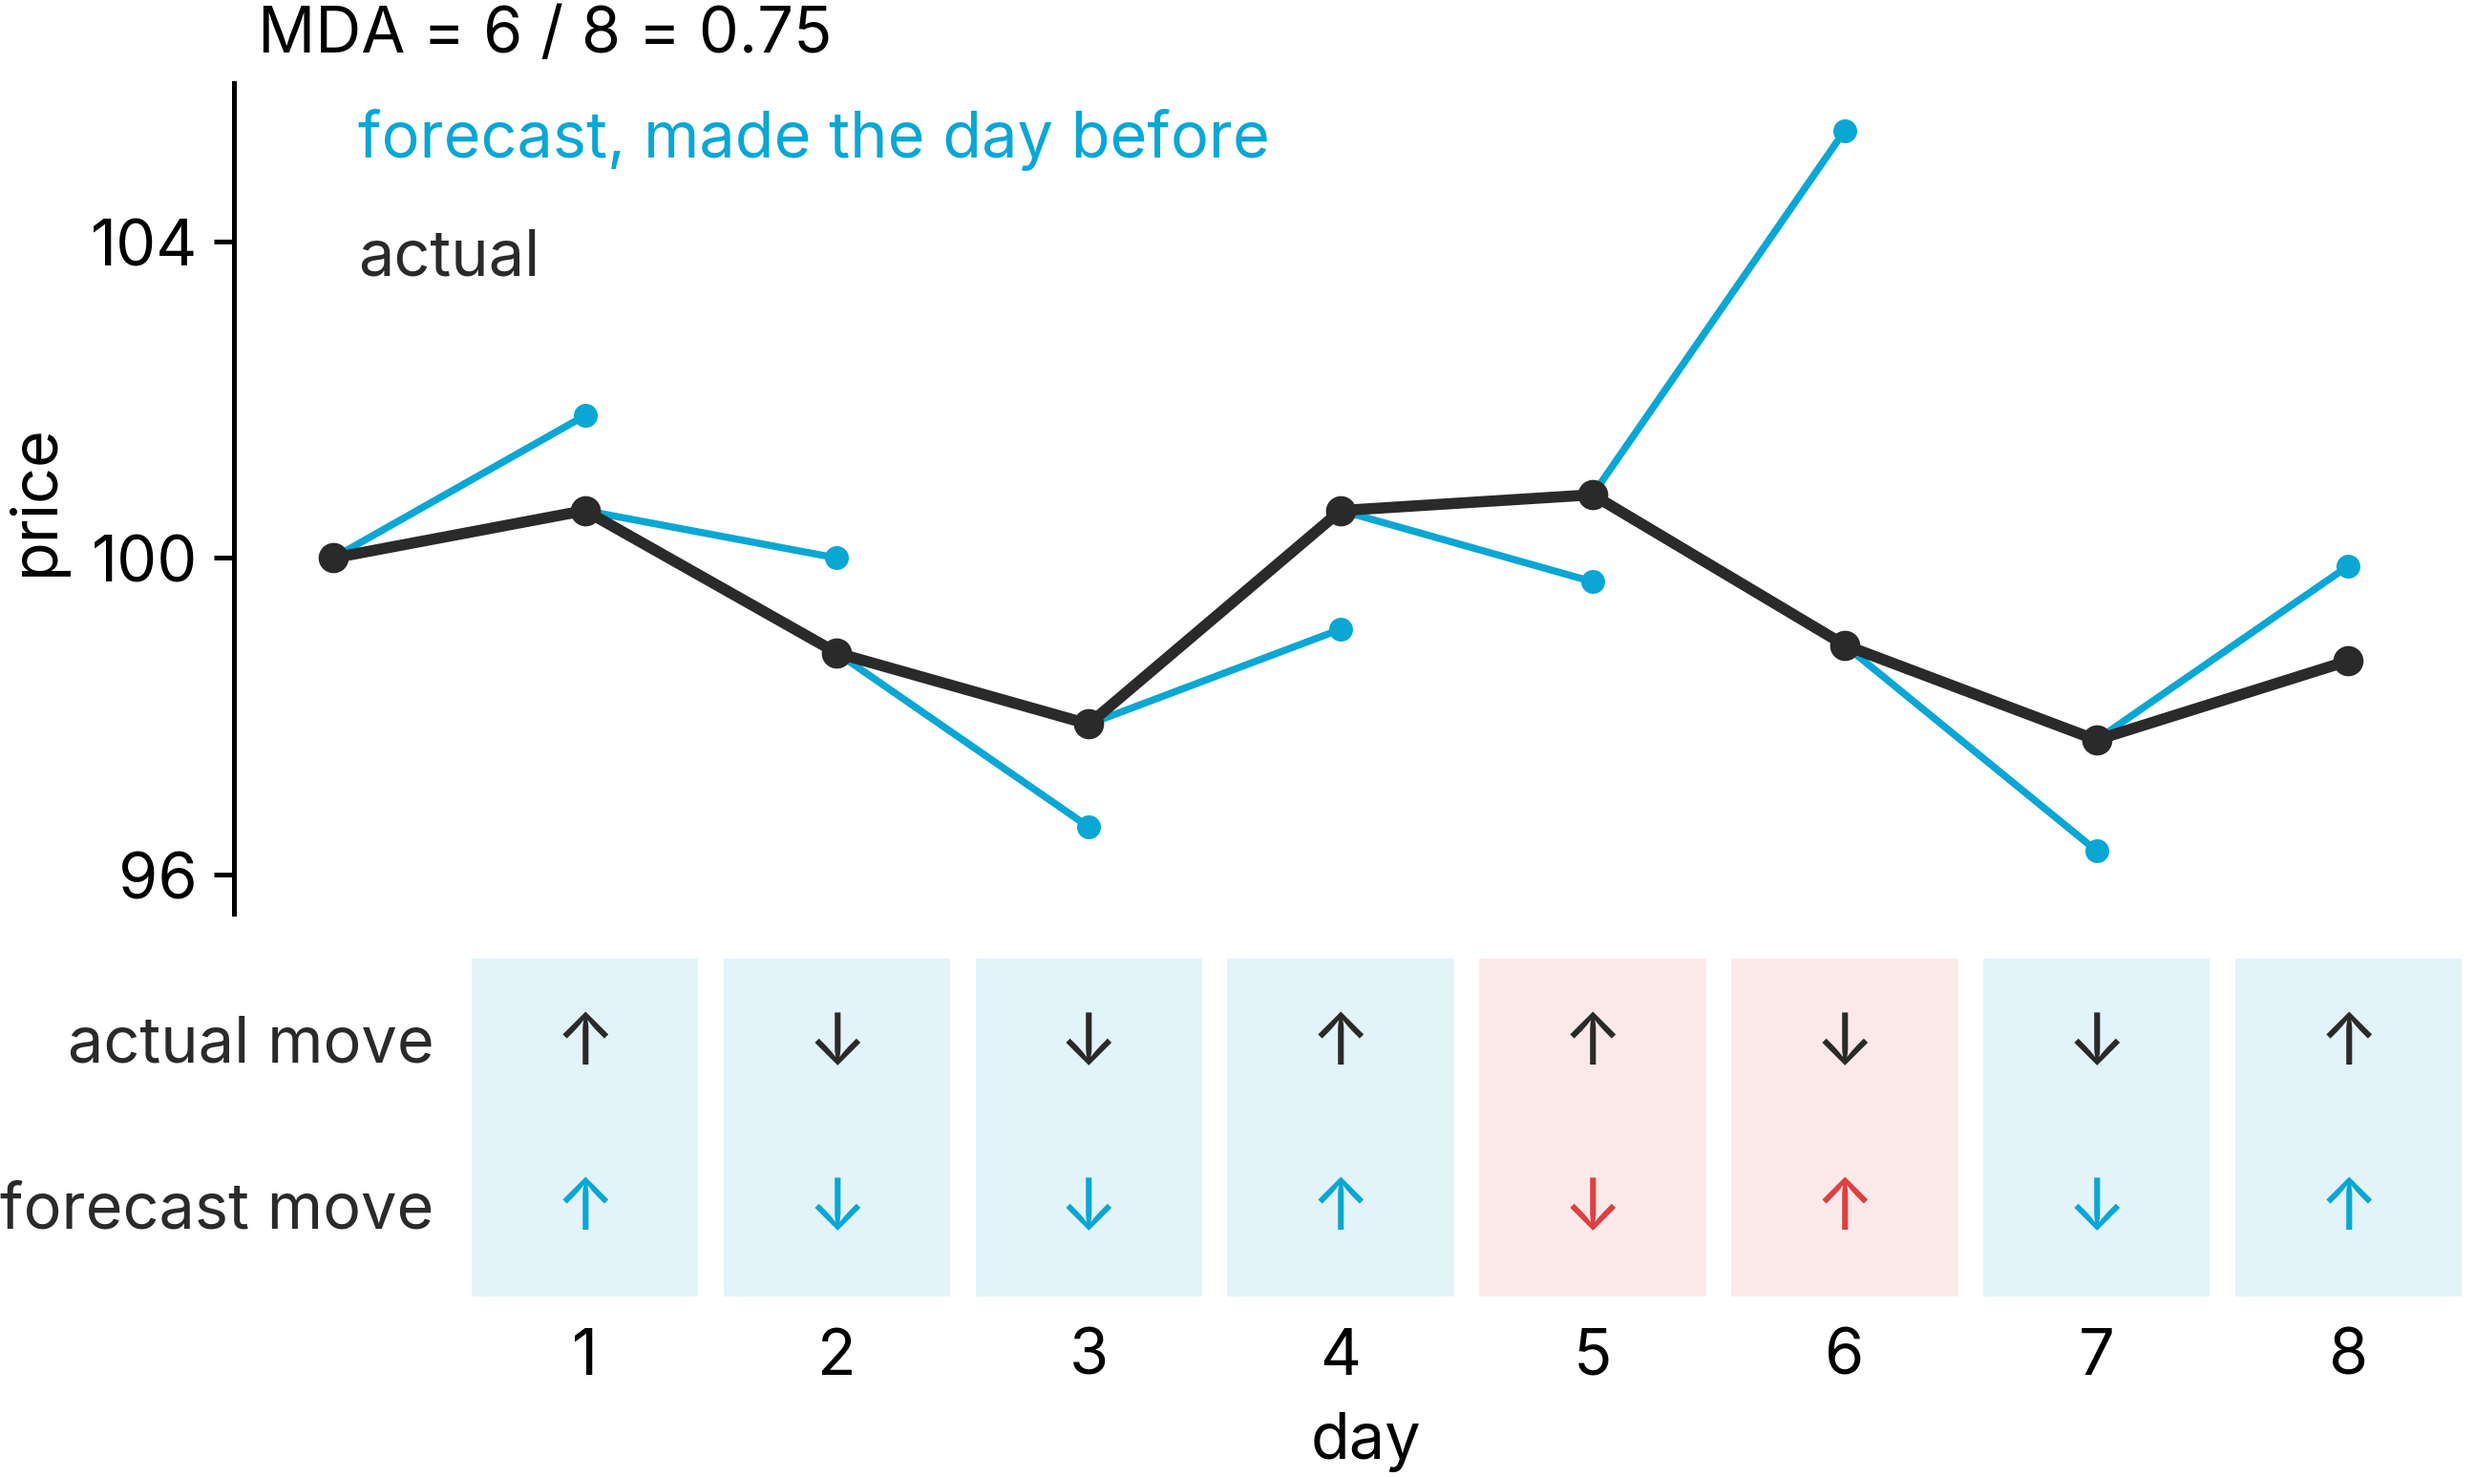
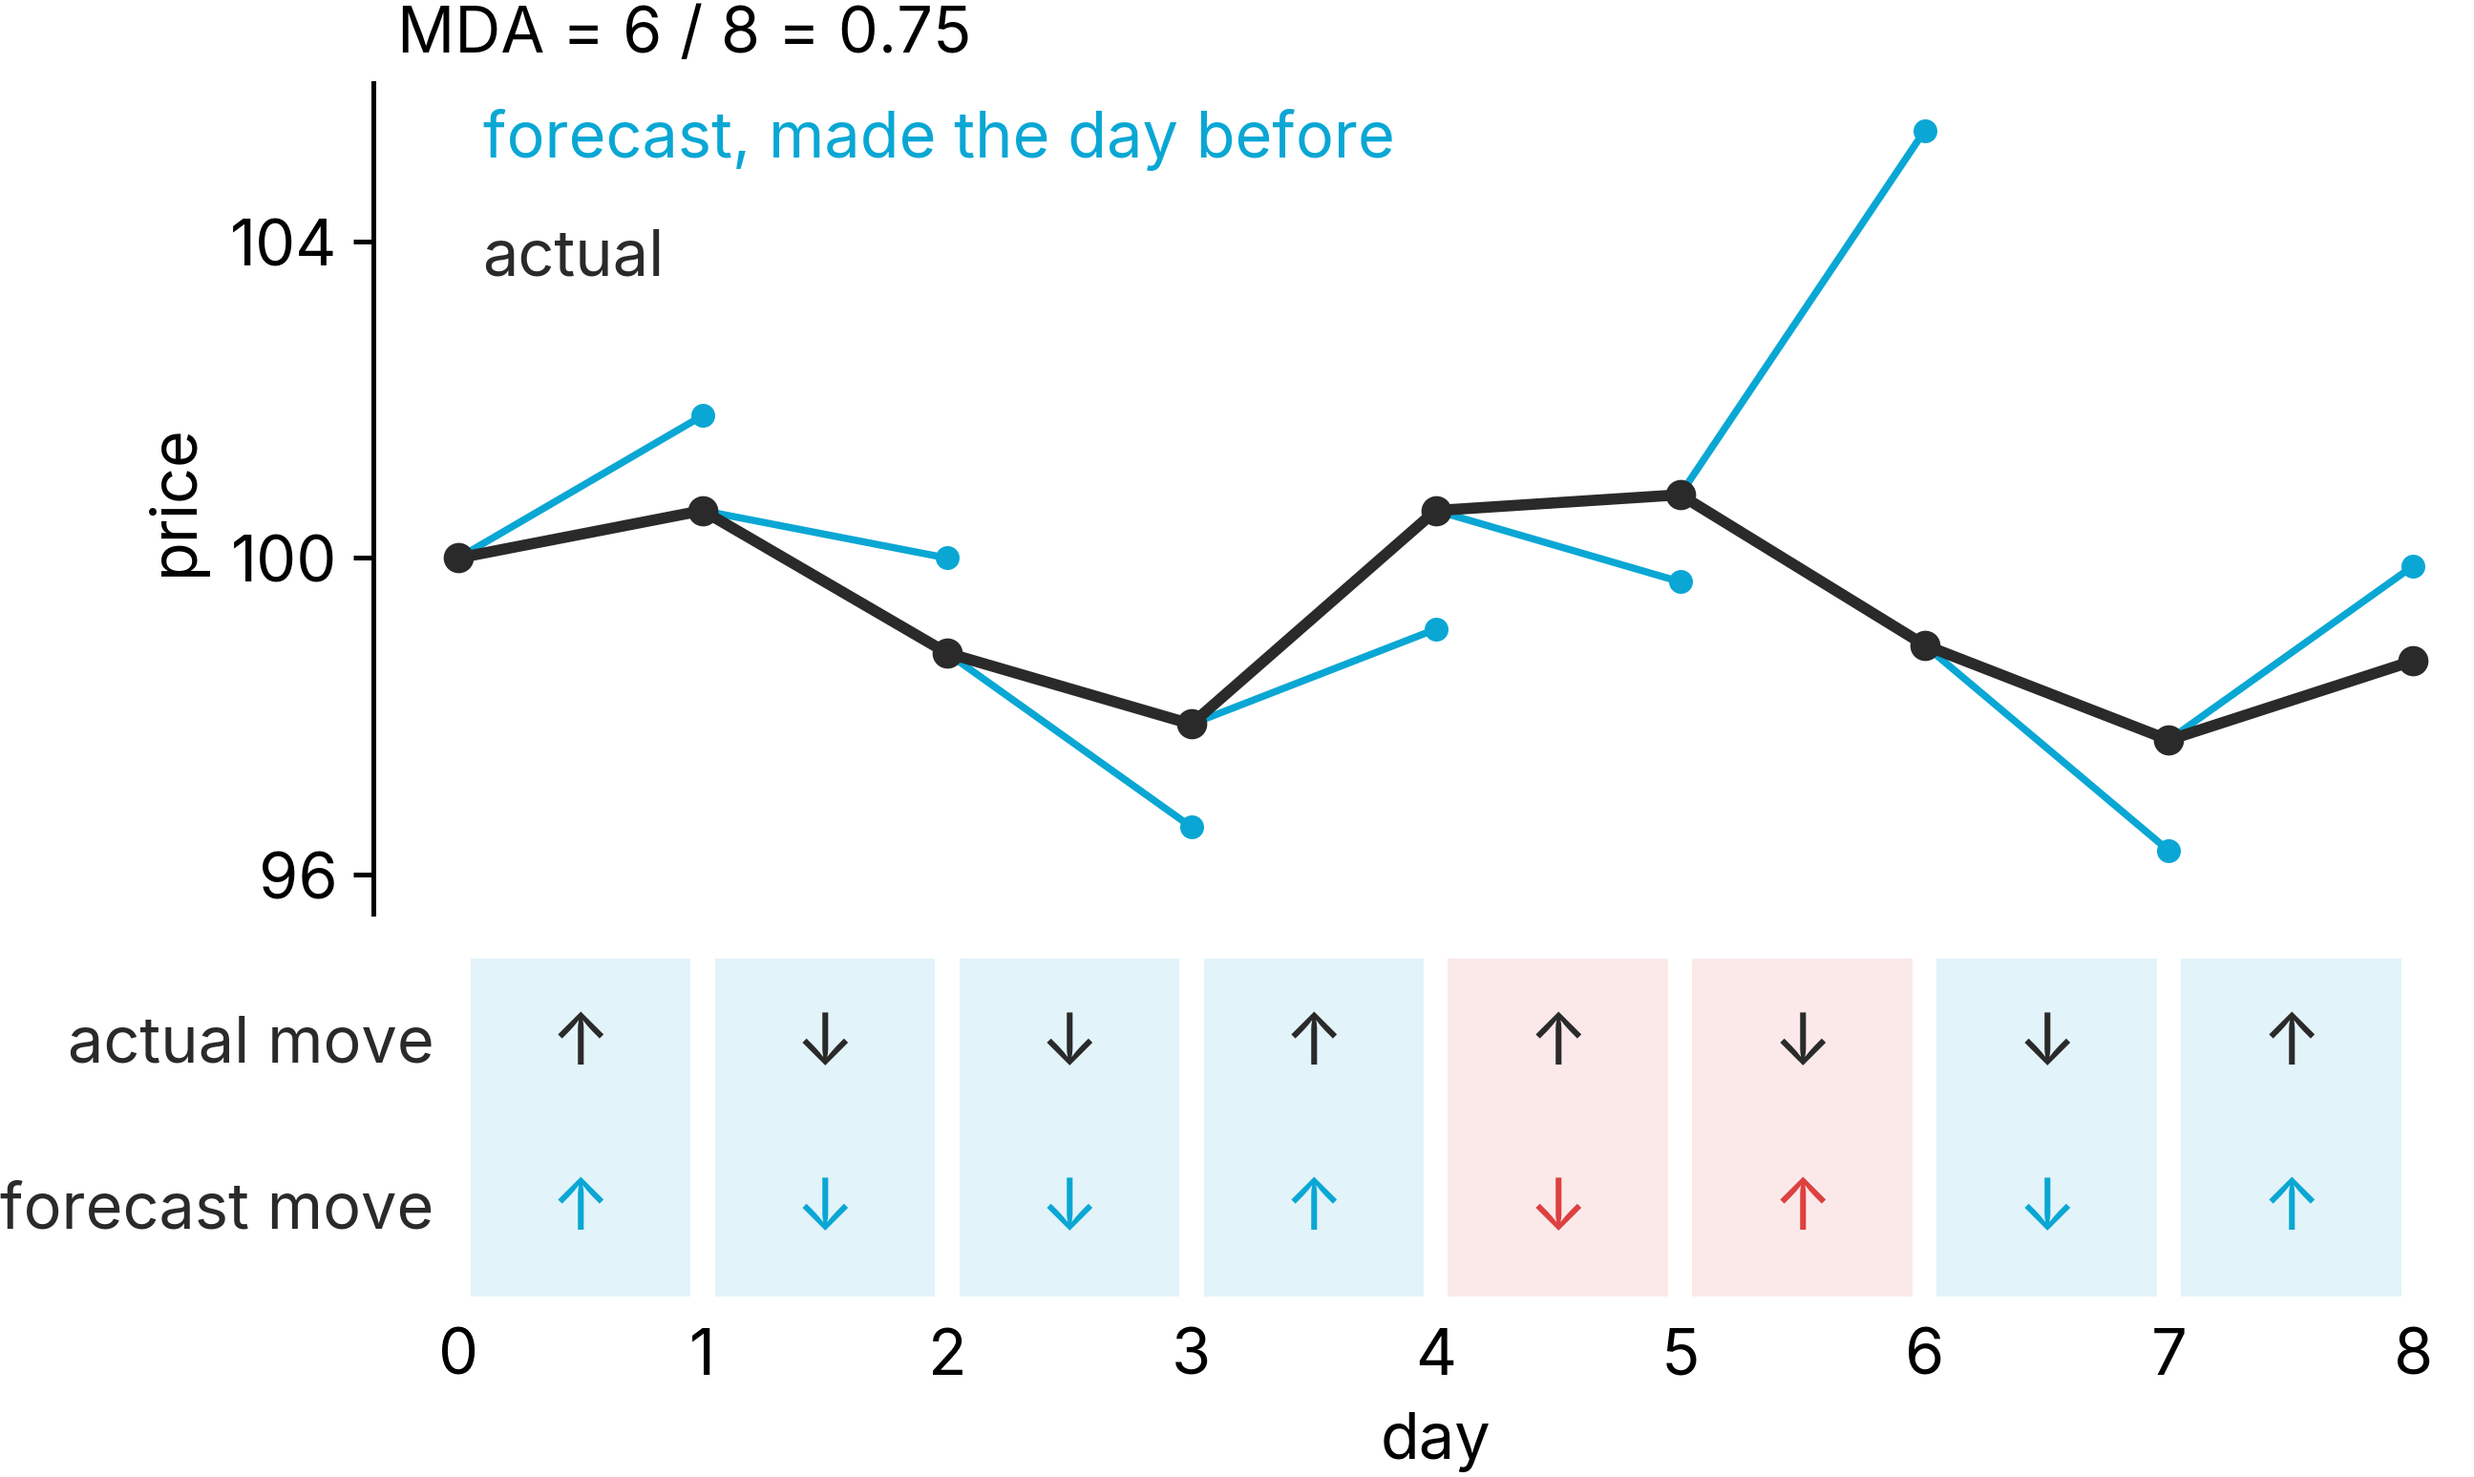
Align MDA move columns with the price segments

diff --git a/notebooks/review_figures.py b/notebooks/review_figures.py
@@ -39,21 +39,23 @@ def fig_mda():
     axT.set_ylim(95.5, 106)
     axT.set_title(f'MDA = {hit.sum()} / {T - 1} = {num(hit.mean())}', loc='left', fontsize=TEXT_PT)
     tidy_axes(axT, bottom=False)
+    # each move sits under the segment it describes, from day i - 1 to day i
     for i in range(1, T):
         ok = hit[i - 1]
-        axB.add_patch(Rectangle((i - 0.45, 0.08), 0.9, 1.84, facecolor=CYAN_TINT if ok else RED_TINT,
+        x = i - 0.5
+        axB.add_patch(Rectangle((x - 0.45, 0.08), 0.9, 1.84, facecolor=CYAN_TINT if ok else RED_TINT,
                                 edgecolor='none'))
-        axB.text(i, 1.45, '\u2191' if a_dir[i - 1] > 0 else '\u2193', ha='center', va='center',
+        axB.text(x, 1.45, '\u2191' if a_dir[i - 1] > 0 else '\u2193', ha='center', va='center',
                  fontsize=TEXT_PT + 1, color=INK)
-        axB.text(i, 0.55, '\u2191' if f_dir[i - 1] > 0 else '\u2193', ha='center', va='center',
+        axB.text(x, 0.55, '\u2191' if f_dir[i - 1] > 0 else '\u2193', ha='center', va='center',
                  fontsize=TEXT_PT + 1, color=NML_CYAN if ok else NML_RED)
-    axB.text(0.4, 1.45, 'actual move', ha='right', va='center', color=INK, clip_on=False)
-    axB.text(0.4, 0.55, 'forecast move', ha='right', va='center', color=INK, clip_on=False)
+    axB.text(-0.1, 1.45, 'actual move', ha='right', va='center', color=INK, clip_on=False)
+    axB.text(-0.1, 0.55, 'forecast move', ha='right', va='center', color=INK, clip_on=False)
     axB.set_ylim(0, 2.0)
-    axB.set_xlim(-0.3, T - 0.5)
+    axB.set_xlim(-0.25, T - 0.75)
     axB.set_xlabel('day')
     bare_axes(axB)
-    axB.set_xticks(t[1:])
+    axB.set_xticks(t)
     axB.tick_params(axis='x', length=0, pad=2)
     save_figure(fig, 'MDA_direction')
     plt.close(fig)

diff --git a/book/2-regression.tex b/book/2-regression.tex
@@ -644,7 +644,7 @@ Use MDA when the direction of change matters, such as in stock or energy-price f
     \includegraphics[width=\textwidth]{figures/MDA_direction.png}
 \end{metricfigure}
 
-\metriccaption{Figure. MDA.}{\textit{Top:} nine days of a price, with the forecast for each day made the day before. \textit{Bottom:} the direction of the actual move and of the forecast move, day by day. Cyan means they agree, red means they don't. MDA counts the cyan columns: $6$ of $8$ moves, so MDA $= 0.75$. The size of a miss never enters: day $6$ forecasts a rise of $4.6$ against a fall of $1.9$, and it counts as one miss, just like day $5$, where the forecast missed a rise of $0.2$.}
+\metriccaption{Figure. MDA.}{\textit{Top:} nine days of a price, with the forecast for each day made the day before. \textit{Bottom:} the direction of the actual move and of the forecast move, each under the segment it describes. Cyan means they agree, red means they don't. MDA counts the cyan columns: $6$ of $8$ moves, so MDA $= 0.75$. The size of a miss never enters: the forecast for day $6$ calls a rise of $4.6$ against a fall of $1.9$, and it counts as one miss, just like the forecast for day $5$, which missed a rise of $0.2$.}
 
 \orangebox{Did you know that...}
 {Oliver Blaskowitz and Helmut Herwartz examined the economic value of directional forecasts in 2011, including the size of the resulting gains and losses. A $55\%$ hit rate can be profitable or unprofitable: the answer also depends on those amounts, position sizes, and trading costs. Counting correct directions alone leaves that information out.}
